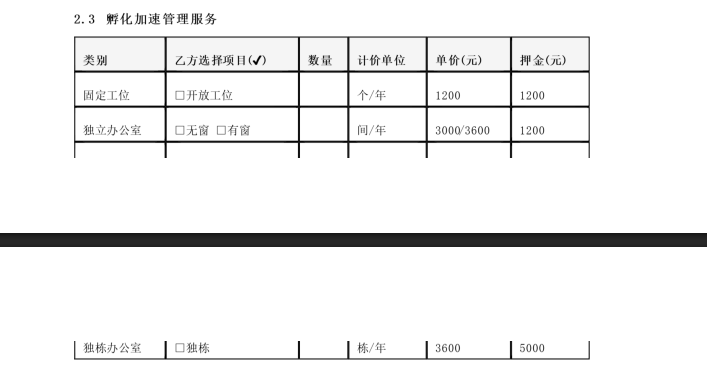
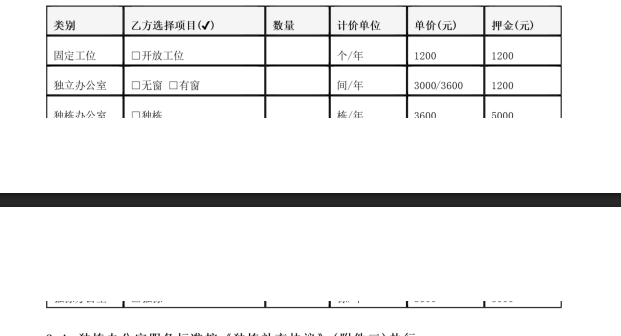
fix: 修复合同模板PDF导出表格分页问题
1. 重写分页逻辑
   - 新增智能分页函数findSafePageBreak，检测"不可分割块"位置
   - 避免在表格中间分页，确保表格完整性

2. HTML结构优化
   - 给包含表格的subsection添加no-break类
   - 2.3小节：将表格和说明文字合并到同一个容器
   - 3.2小节：费用结算表格添加no-break保护
   - 5.1小节：违约金表格添加no-break保护

3. CSS样式增强
   - 新增.no-break类支持page-break-inside: avoid和break-inside: avoid
   - 确保表格和配套说明不被分页拆开

diff --git a/src/lib/pdf-export.ts b/src/lib/pdf-export.ts
@@ -613,17 +613,24 @@ function createContractTemplateHtml(
     .simple-table td:nth-child(6) { width: 12%; }
     
     /* 防止表格跨页断开 */
+    .no-break {
+      page-break-inside: avoid;
+      break-inside: avoid;
+    }
     .subsection {
       page-break-inside: avoid;
+      break-inside: avoid;
     }
     .section {
       page-break-inside: auto;
     }
     .simple-table {
       page-break-inside: avoid;
+      break-inside: avoid;
     }
     .signature-area {
       page-break-inside: avoid;
+      break-inside: avoid;
       page-break-before: always;
     }
     
@@ -760,7 +767,7 @@ function createContractTemplateHtml(
         </table>
         <div class="paragraph">(二)若乙方租赁或使用甲方名下的独栋办公室，则上述服务不再免费提供，乙方需自行承担相关费用</div>
       </div>
-      <div class="subsection">
+      <div class="subsection no-break">
         <div class="subsection-title" style="text-indent: 0;">2.3 孵化加速管理服务</div>
         <table class="simple-table">
           <tr>
@@ -796,9 +803,7 @@ function createContractTemplateHtml(
             <td>5000</td>
           </tr>
         </table>
-      </div>
-      <div class="subsection">
-        <div class="subsection-title" style="text-indent: 0;">2.4 独栋办公室服务标准按《独栋补充协议》(附件三)执行</div>
+        <div class="paragraph" style="margin-top: 10px;">★4、独栋办公室租金按《独栋办公室协议》（附件三）执行</div>
       </div>`;
     }
     
@@ -810,7 +815,7 @@ function createContractTemplateHtml(
         <div class="paragraph">起始日: ____年____月____日</div>
         <div class="paragraph">终止日: ____年____月____日 (共计____年)</div>
       </div>
-      <div class="subsection">
+      <div class="subsection no-break">
         <div class="subsection-title" style="text-indent: 0;">3.2 费用结算(人民币)</div>
         <table class="simple-table">
           <tr>
@@ -858,7 +863,7 @@ function createContractTemplateHtml(
     // 第五条：违约责任 - 包含违约金表格
     if (title.includes('违约责任')) {
       return `
-      <div class="subsection">
+      <div class="subsection no-break">
         <div class="subsection-title" style="text-indent: 0;">5.1 违约金计算</div>
         <table class="simple-table">
           <tr>
@@ -1059,7 +1064,7 @@ function getFullTemplateContent(): string {
         </table>
         <div class="paragraph">(二)若乙方租赁或使用甲方名下的独栋办公室，则上述服务不再免费提供，乙方需自行承担相关费用</div>
       </div>
-      <div class="subsection">
+      <div class="subsection no-break">
         <div class="subsection-title" style="text-indent: 0;">2.3 孵化加速管理服务</div>
         <table class="simple-table">
           <tr>
@@ -1095,9 +1100,7 @@ function getFullTemplateContent(): string {
             <td>5000</td>
           </tr>
         </table>
-      </div>
-      <div class="subsection">
-        <div class="subsection-title" style="text-indent: 0;">2.4 独栋办公室服务标准按《独栋补充协议》(附件三)执行</div>
+        <div class="paragraph" style="margin-top: 10px;">★4、独栋办公室租金按《独栋办公室协议》（附件三）执行</div>
       </div>
     </div>
     
@@ -1154,7 +1157,7 @@ function getFullTemplateContent(): string {
     
     <div class="section">
       <div class="section-title">第五条 违约责任</div>
-      <div class="subsection">
+      <div class="subsection no-break">
         <div class="subsection-title" style="text-indent: 0;">5.1 违约金计算</div>
         <table class="simple-table">
           <tr>
@@ -1206,7 +1209,7 @@ function getFullTemplateContent(): string {
 }
 
 /**
- * 导出合同模板为 PDF - 专业合同样式
+ * 导出合同模板为 PDF - 专业合同样式（智能分页避免表格被截断）
  */
 export async function exportContractTemplateToPdf(
   template: ContractTemplateData,
@@ -1225,7 +1228,7 @@ export async function exportContractTemplateToPdf(
   iframe.style.left = "-9999px";
   iframe.style.top = "0";
   iframe.style.width = "800px";
-  iframe.style.height = "4000px"; // 增加高度以容纳附件
+  iframe.style.height = "4000px";
   iframe.style.border = "none";
   document.body.appendChild(iframe);
 
@@ -1255,7 +1258,7 @@ export async function exportContractTemplateToPdf(
       windowWidth: 800,
     });
 
-    // A4 尺寸 (mm)
+    // 页面尺寸配置
     const pageSizes: Record<string, { width: number; height: number }> = {
       a4: { width: 210, height: 297 },
       a5: { width: 148, height: 210 },
@@ -1266,8 +1269,8 @@ export async function exportContractTemplateToPdf(
     const pageWidth = orientation === 'l' ? pageSize.height : pageSize.width;
     const pageHeight = orientation === 'l' ? pageSize.width : pageSize.height;
     
-    const marginTop = 25;
-    const marginBottom = 20;
+    const marginTop = 20;
+    const marginBottom = 15;
     const marginLeft = 20;
     const contentWidth = pageWidth - marginLeft * 2;
     const contentHeight = pageHeight - marginTop - marginBottom;
@@ -1284,8 +1287,42 @@ export async function exportContractTemplateToPdf(
 
     const imgData = canvas.toDataURL("image/png");
     
-    // 每页能放的内容高度
-    const usableHeight = contentHeight;
+    // 获取所有"不可分割块"（表格和其说明文字）的位置
+    const noBreakElements = iframeDoc.querySelectorAll('.no-break, .subsection');
+    const noBreakRegions: Array<{start: number; end: number}> = [];
+    
+    noBreakElements.forEach((el) => {
+      const rect = el.getBoundingClientRect();
+      const iframeRect = iframe.getBoundingClientRect();
+      // 计算元素在canvas上的Y坐标
+      const startY = (rect.top - iframeRect.top) * 2; // scale=2
+      const endY = startY + rect.height * 2;
+      noBreakRegions.push({ start: startY, end: endY });
+    });
+
+    // 智能分页函数：避免在不可分割块中间分页
+    const findSafePageBreak = (proposedBreak: number): number => {
+      const tolerance = 50; // 容差（像素）
+      
+      for (const region of noBreakRegions) {
+        // 如果分页点在某个不可分割块内部，则调整到该块的开始位置
+        if (proposedBreak > region.start + tolerance && proposedBreak < region.end - tolerance) {
+          // 检查是否可以将整个块放到下一页
+          const regionHeight = region.end - region.start;
+          const maxRegionHeight = contentHeight * (canvas.width / contentWidth) * 0.9; // 最多占90%页面高度
+          
+          if (regionHeight < maxRegionHeight) {
+            // 将分页点调整到块的开始位置
+            return region.start - 10; // 留一点边距
+          }
+        }
+      }
+      return proposedBreak;
+    };
+    
+    // 每页能放的内容高度（像素）
+    const pageContentHeightPx = contentHeight * (canvas.width / contentWidth);
+    
     let currentY = 0;
     let pageNum = 0;
 
@@ -1295,13 +1332,21 @@ export async function exportContractTemplateToPdf(
         pdf.addPage();
       }
 
-      const sourceY = (currentY / imgHeight) * canvas.height;
+      let proposedBreak = currentY + pageContentHeightPx;
+      
+      // 智能调整分页点，避免切断表格
+      if (proposedBreak < canvas.height) {
+        proposedBreak = findSafePageBreak(proposedBreak);
+      }
+      
+      const sourceY = currentY * (canvas.height / imgHeight);
       const sourceHeight = Math.min(
-        (usableHeight / imgHeight) * canvas.height,
+        (proposedBreak - currentY) * (canvas.height / imgHeight),
         canvas.height - sourceY
       );
 
-      if (pageNum === 0 && imgHeight <= usableHeight) {
+      if (pageNum === 0 && imgHeight <= pageContentHeightPx) {
+        // 内容不超过一页，直接添加
         pdf.addImage(imgData, "PNG", marginLeft, marginTop, imgWidth, imgHeight);
       } else {
         const pageCanvas = document.createElement("canvas");
@@ -1322,7 +1367,7 @@ export async function exportContractTemplateToPdf(
         }
       }
 
-      currentY += usableHeight;
+      currentY = proposedBreak;
       pageNum++;
     }
 
